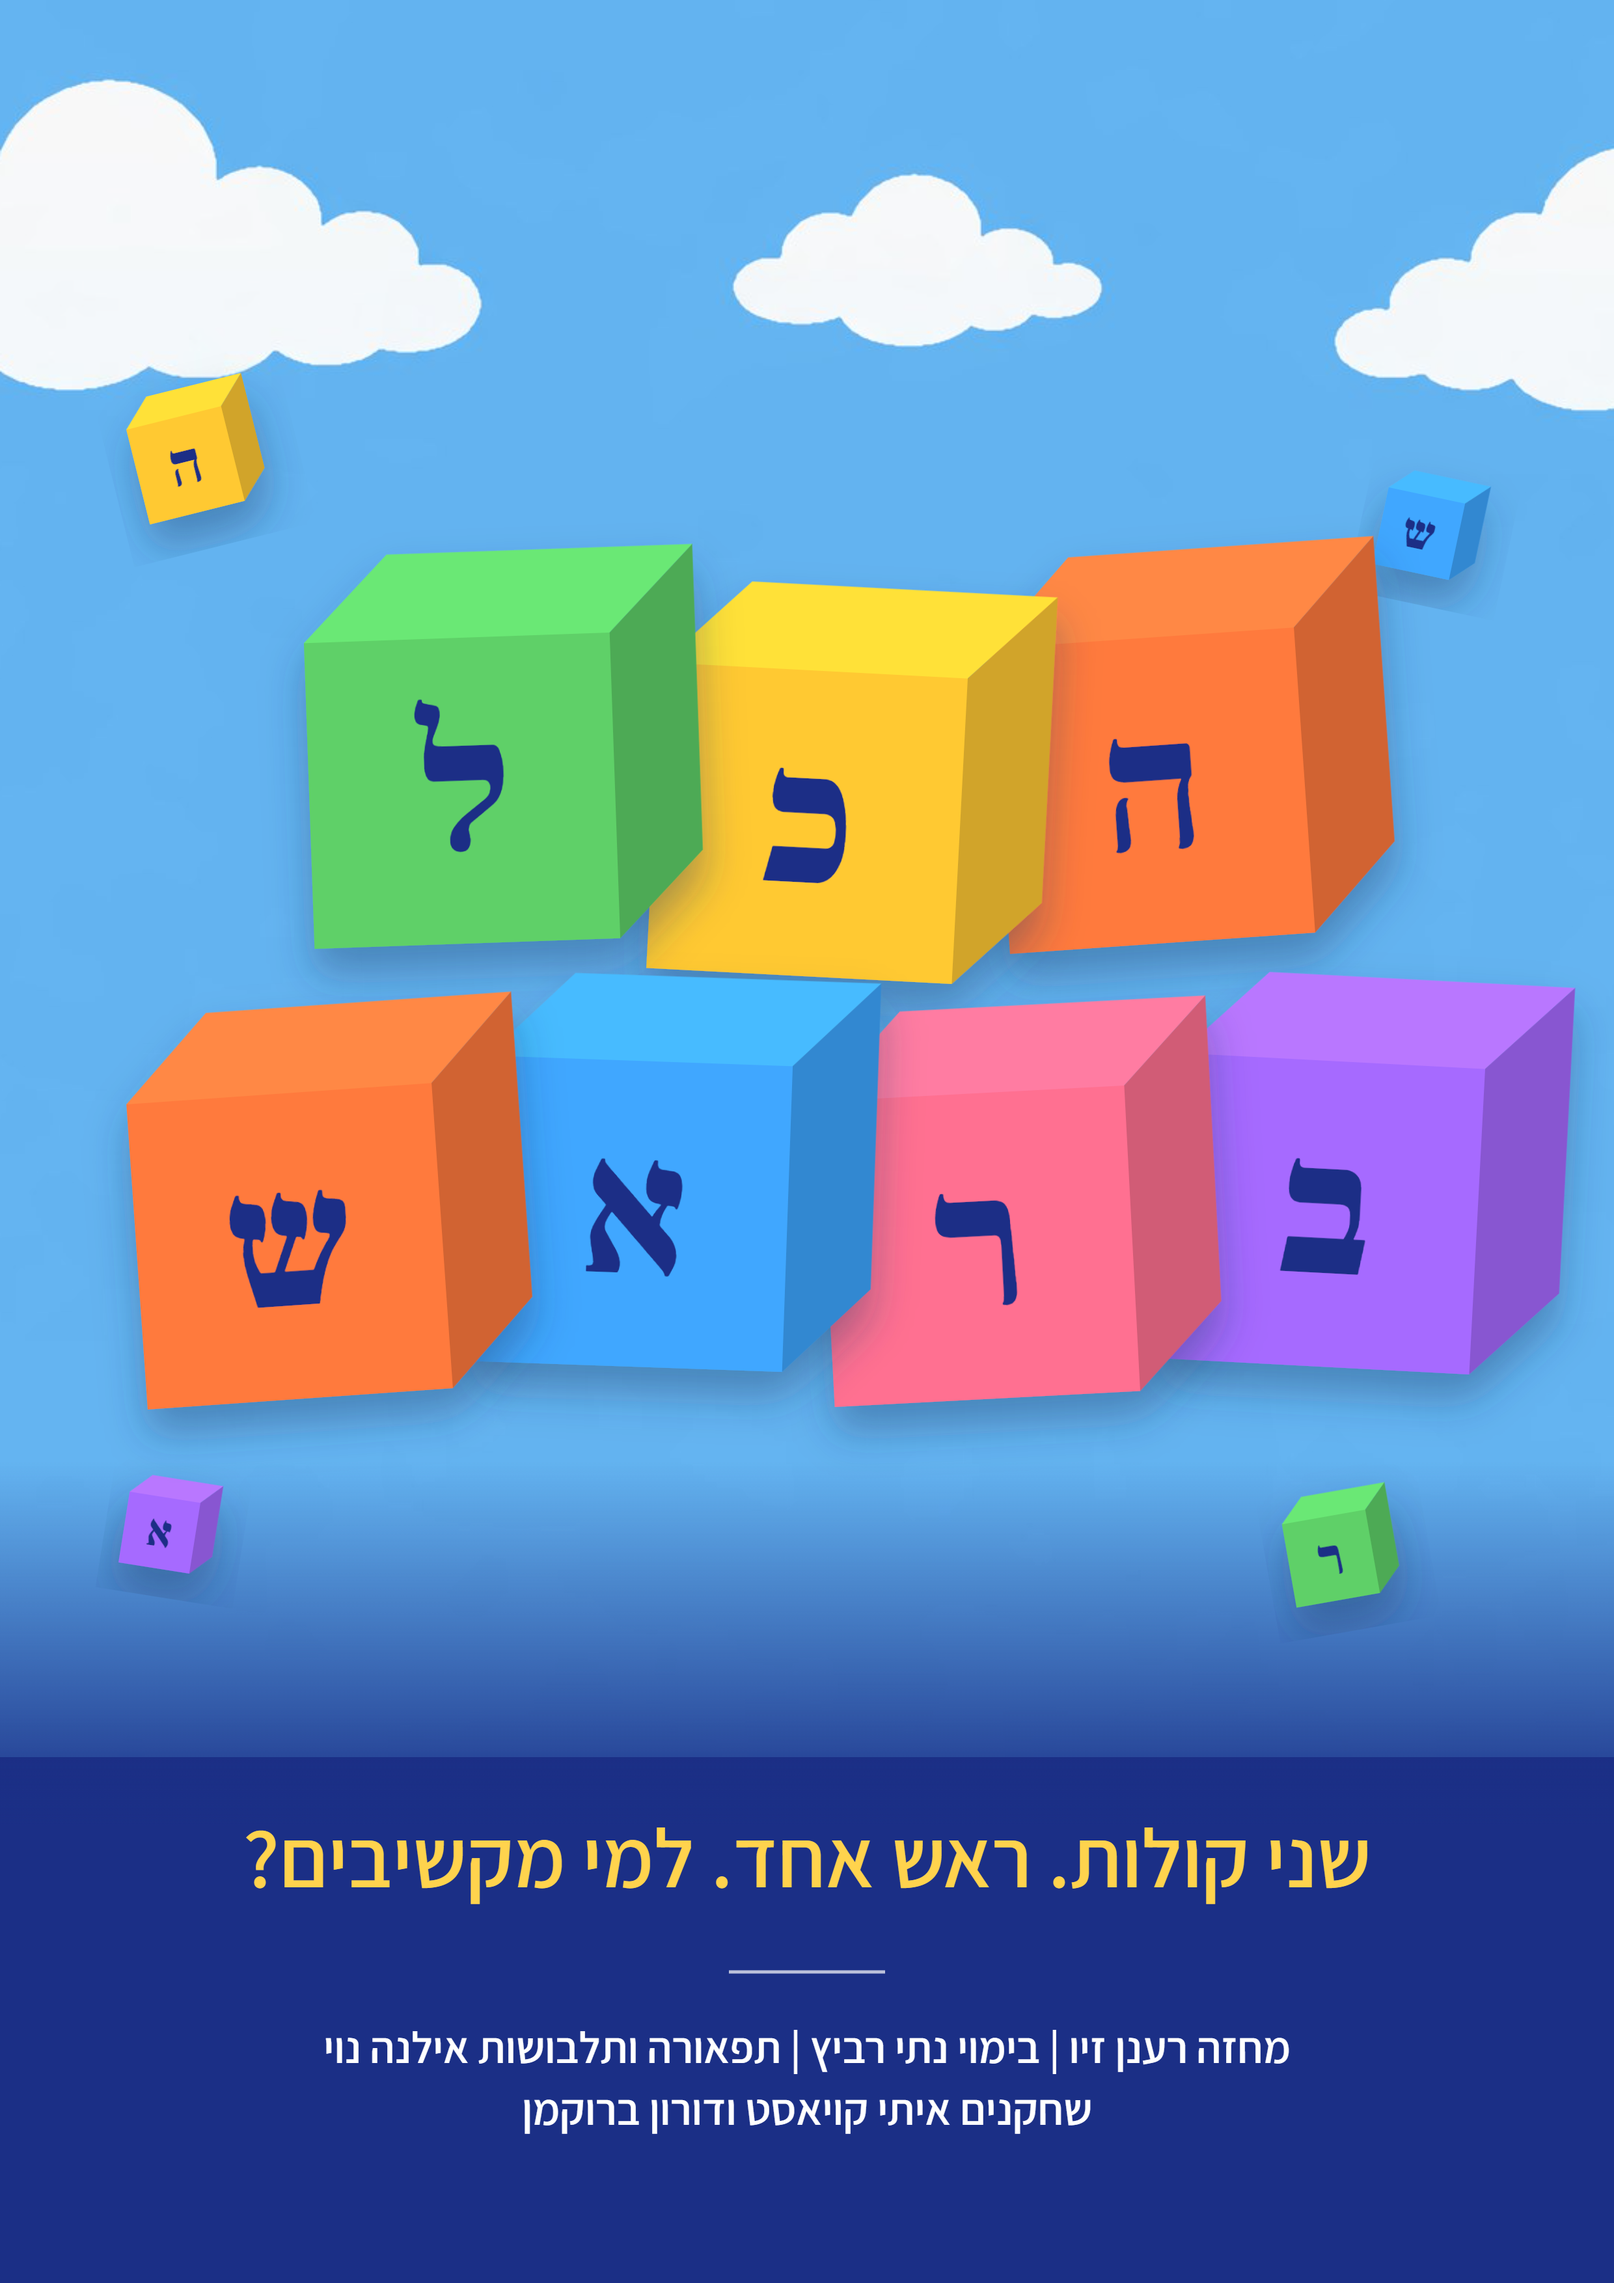
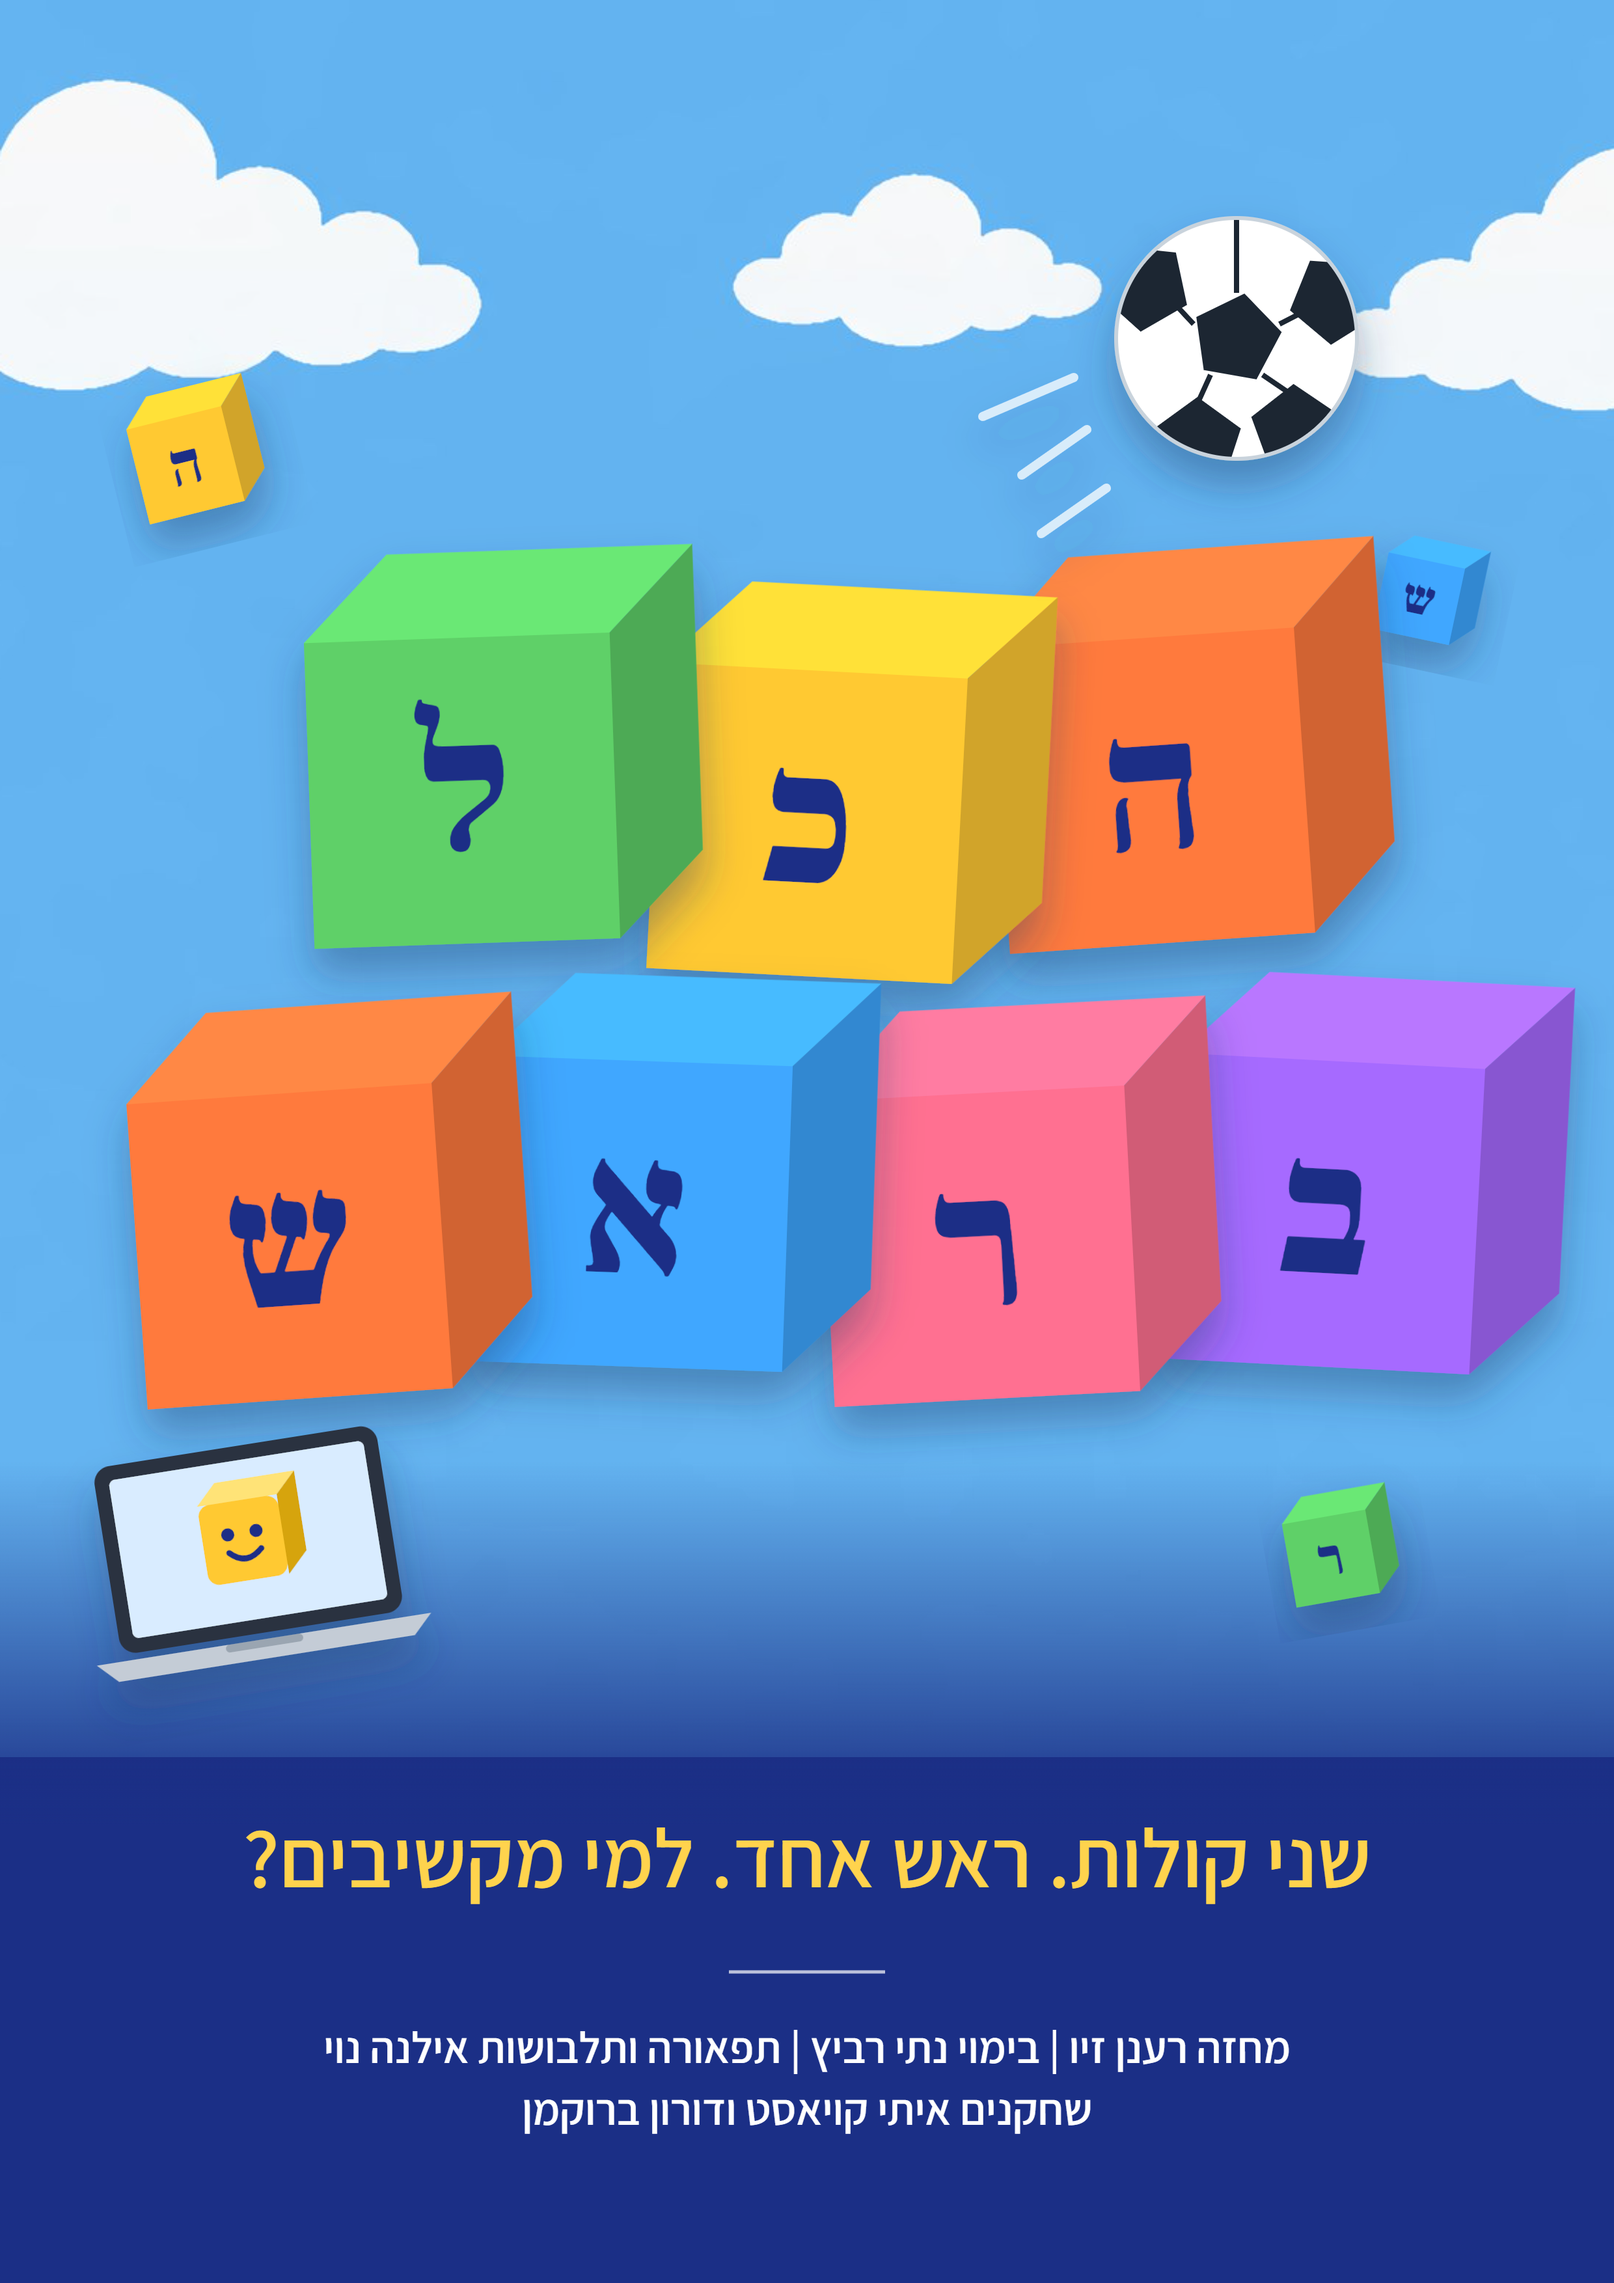
poster: add soccer ball and laptop with a smiling cube

Changed region(s): [[0.621, 0.0932, 0.8694, 0.2486], [0.0621, 0.6214, 0.2794, 0.7457], [0.8383, 0.1864, 0.9315, 0.3107]]

diff --git a/poster/hakol-braosh.html b/poster/hakol-braosh.html
@@ -8,7 +8,7 @@
  <polygon points="0,0 42.00000000000001,-42.00000000000001 192.0,-42.00000000000001 150,0" fill="#ffe139"/>
  <polygon points="150,0 192.0,-42.00000000000001 192.0,108.0 150,150" fill="#d1a429"/>
  <rect width="150" height="150" fill="#ffc933"/>
- <text x="75.0" y="75.0" font-family="Frank Ruhl Libre" font-weight="900" font-size="93.0" fill="#1b2f86" text-anchor="middle" dominant-baseline="central">ה</text></g><g transform="translate(2120 760) rotate(12 60.0 60.0)" filter="url(#sh)">
+ <text x="75.0" y="75.0" font-family="Frank Ruhl Libre" font-weight="900" font-size="93.0" fill="#1b2f86" text-anchor="middle" dominant-baseline="central">ה</text></g><g transform="translate(2120 860) rotate(12 60.0 60.0)" filter="url(#sh)">
  <polygon points="0,0 33.6,-33.6 153.6,-33.6 120,0" fill="#46bbff"/>
  <polygon points="120,0 153.6,-33.6 153.6,86.4 120,120" fill="#3388d1"/>
  <rect width="120" height="120" fill="#3fa7ff"/>
@@ -16,11 +16,7 @@
  <polygon points="0,0 36.400000000000006,-36.400000000000006 166.4,-36.400000000000006 130,0" fill="#6ae874"/>
  <polygon points="130,0 166.4,-36.400000000000006 166.4,93.6 130,130" fill="#4daa55"/>
  <rect width="130" height="130" fill="#5fd068"/>
- <text x="65.0" y="65.0" font-family="Frank Ruhl Libre" font-weight="900" font-size="80.6" fill="#1b2f86" text-anchor="middle" dominant-baseline="central">ר</text></g><g transform="translate(190 2300) rotate(9 55.0 55.0)" filter="url(#sh)">
- <polygon points="0,0 30.800000000000004,-30.800000000000004 140.8,-30.800000000000004 110,0" fill="#b977ff"/>
- <polygon points="110,0 140.8,-30.800000000000004 140.8,79.19999999999999 110,110" fill="#8857d1"/>
- <rect width="110" height="110" fill="#a66bff"/>
- <text x="55.0" y="55.0" font-family="Frank Ruhl Libre" font-weight="900" font-size="68.2" fill="#1b2f86" text-anchor="middle" dominant-baseline="central">א</text></g><g transform="translate(1535.0 980) rotate(-4 235.0 235.0)" filter="url(#sh)">
+ <text x="65.0" y="65.0" font-family="Frank Ruhl Libre" font-weight="900" font-size="80.6" fill="#1b2f86" text-anchor="middle" dominant-baseline="central">ר</text></g><g transform="translate(1535.0 980) rotate(-4 235.0 235.0)" filter="url(#sh)">
  <polygon points="0,0 131.60000000000002,-131.60000000000002 601.6,-131.60000000000002 470,0" fill="#ff8844"/>
  <polygon points="470,0 601.6,-131.60000000000002 601.6,338.4 470,470" fill="#d16432"/>
  <rect width="470" height="470" fill="#ff7a3d"/>
@@ -48,7 +44,16 @@
  <polygon points="0,0 131.60000000000002,-131.60000000000002 601.6,-131.60000000000002 470,0" fill="#ff8844"/>
  <polygon points="470,0 601.6,-131.60000000000002 601.6,338.4 470,470" fill="#d16432"/>
  <rect width="470" height="470" fill="#ff7a3d"/>
- <text x="235.0" y="235.0" font-family="Frank Ruhl Libre" font-weight="900" font-size="291.4" fill="#1b2f86" text-anchor="middle" dominant-baseline="central">ש</text></g>
+ <text x="235.0" y="235.0" font-family="Frank Ruhl Libre" font-weight="900" font-size="291.4" fill="#1b2f86" text-anchor="middle" dominant-baseline="central">ש</text></g><g transform="rotate(-9 390 2420)" filter="url(#sh)">
+<rect x="170" y="2220" width="440" height="290" rx="26" fill="#2b3340"/><rect x="192" y="2242" width="396" height="246" rx="10" fill="#ffffff"/>
+<rect x="192" y="2242" width="396" height="246" rx="10" fill="#d9ecff"/>
+<g transform="translate(390 2365)"><rect x="-70" y="-62" width="124" height="124" rx="18" fill="#ffc933"/><polygon points="-70,-62 -38,-94 86,-94 54,-62" fill="#ffe377"/><polygon points="54,-62 86,-94 86,30 54,62" fill="#d6a40f"/>
+<circle cx="-30" cy="-12" r="10" fill="#1b2f86"/><circle cx="14" cy="-12" r="10" fill="#1b2f86"/><path d="M-32 16 Q-8 40 18 16" stroke="#1b2f86" stroke-width="9" fill="none" stroke-linecap="round"/></g>
+<path d="M130 2520 L650 2520 L620 2550 L160 2550 Z" fill="#c4ccd6"/><rect x="330" y="2520" width="120" height="12" rx="6" fill="#9aa5b1"/></g><g filter="url(#sh)"><g stroke="#fff" stroke-opacity=".75" stroke-width="14" stroke-linecap="round"><line x1="1570" y1="730" x2="1670" y2="660"/><line x1="1510" y1="640" x2="1650" y2="580"/><line x1="1600" y1="820" x2="1700" y2="750"/></g>
+<circle cx="1900" cy="520" r="185" fill="#fff"/><clipPath id="bc"><circle cx="1900" cy="520" r="185"/></clipPath>
+<g clip-path="url(#bc)" fill="#1c2733"><polygon points="1912.2,451.1 1969.3,510.3 1930.7,582.9 1849.6,568.6 1838.2,487.1"/><polygon points="2095.0,406.4 2114.9,486.2 2045.1,529.8 1982.1,476.9 2012.9,400.6"/><polygon points="1725.0,379.4 1806.8,388.0 1823.9,468.5 1752.7,509.6 1691.5,454.6"/><polygon points="1840.0,610.0 1906.6,658.4 1881.1,736.6 1798.9,736.6 1773.4,658.4"/><polygon points="2055.8,636.1 2033.1,715.2 1950.9,718.0 1922.7,640.7 1987.6,590.0"/></g>
+<g stroke="#1c2733" stroke-width="8" fill="none"><line x1="1900" y1="450" x2="1900" y2="335"/><line x1="1966" y1="498" x2="2040" y2="460"/><line x1="1834" y1="498" x2="1780" y2="440"/><line x1="1860" y1="576" x2="1840" y2="620"/><line x1="1940" y1="576" x2="1990" y2="610"/></g>
+<circle cx="1900" cy="520" r="185" fill="none" stroke="#c9d3dc" stroke-width="6"/></g>
 <text x="1240.0" y="2900" font-family="Assistant" font-weight="600" font-size="128" fill="#ffd34d" text-anchor="middle" direction="rtl">שני קולות. ראש אחד. למי מקשיבים?</text>
 <line x1="1120.0" x2="1360.0" y1="3030" y2="3030" stroke="#ffffff" stroke-opacity=".7" stroke-width="5"/>
 <text x="1240.0" y="3170" font-family="Assistant" font-weight="600" font-size="68" fill="#ffffff" text-anchor="middle" direction="rtl">מחזה רענן זיו  |  בימוי נתי רביץ  |  תפאורה ותלבושות אילנה נוי</text>
